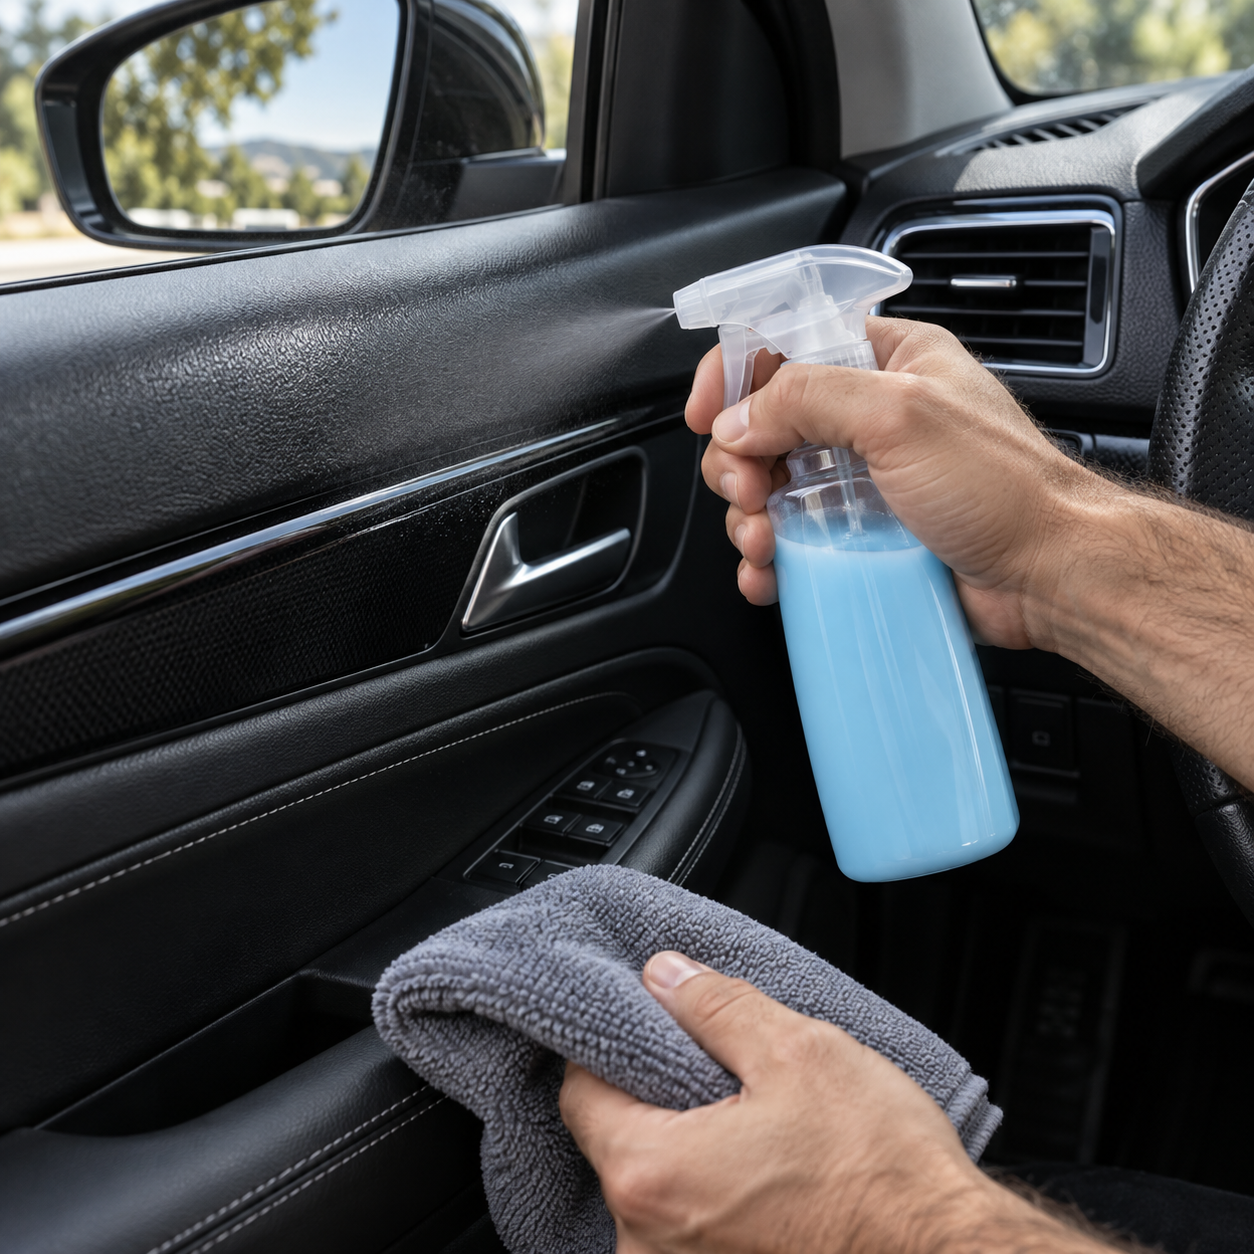
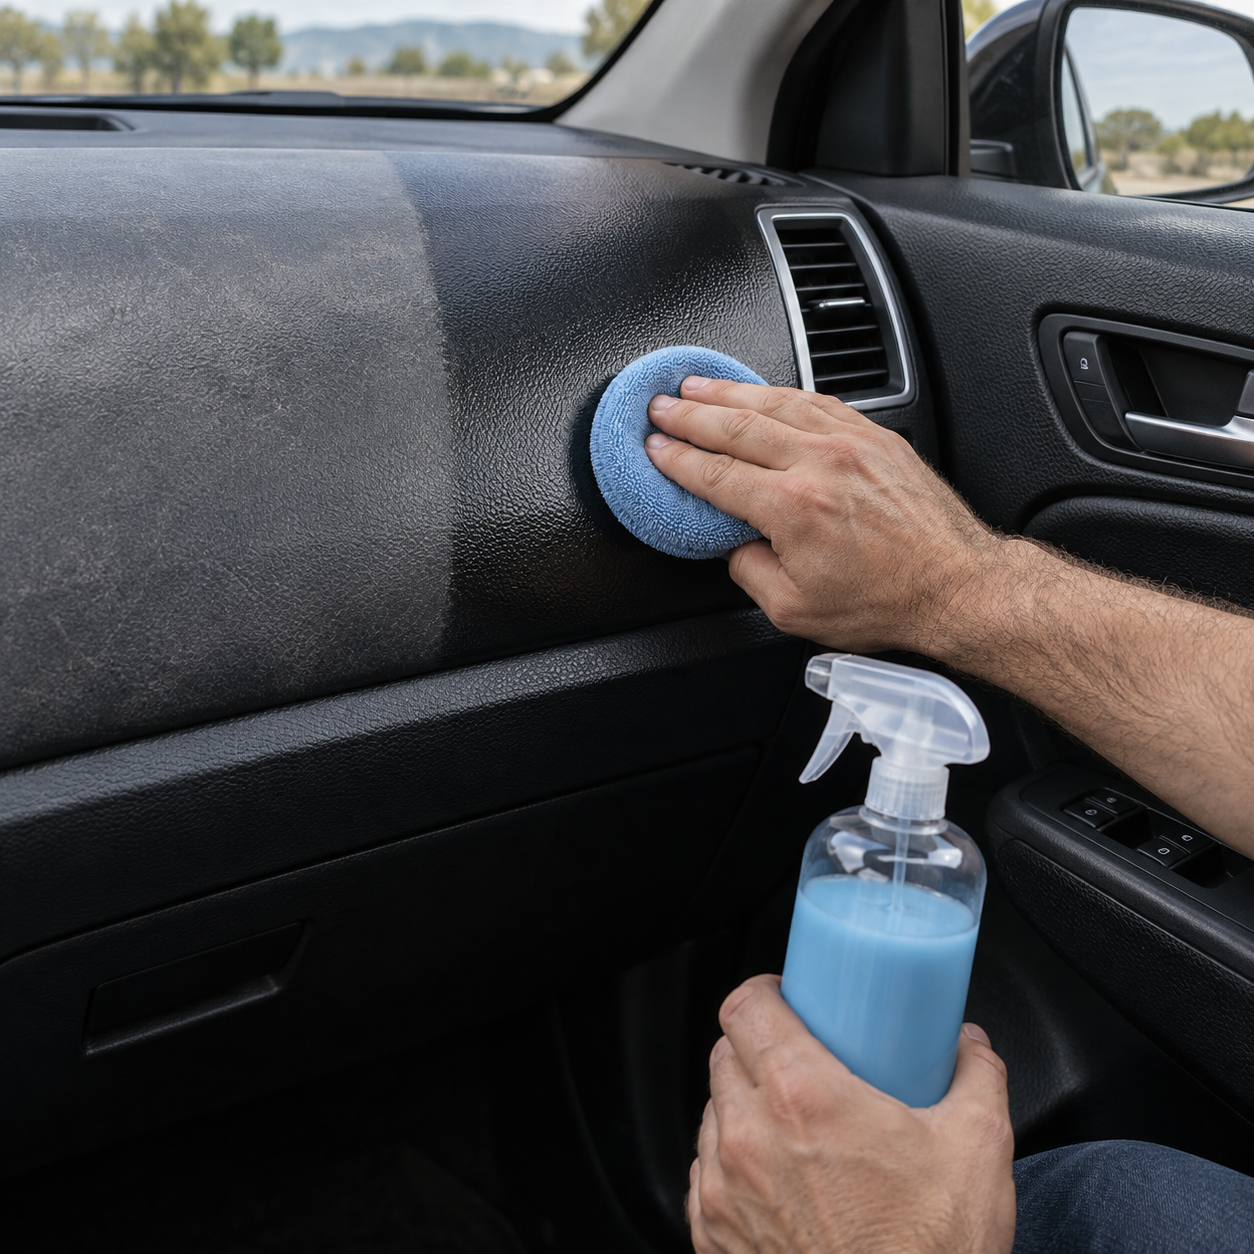
feat: mejora aplicación de abrillantador de viniles

diff --git a/automotriz/abrillantador-viniles-liquido/index.html b/automotriz/abrillantador-viniles-liquido/index.html
@@ -102,7 +102,7 @@
       "name": "¿Cómo se aplica?",
       "acceptedAnswer": {
         "@type": "Answer",
-        "text": "Se aplica en poca cantidad con atomizador o microfibra limpia, se distribuye de forma uniforme y se retira cualquier exceso."
+        "text": "Se coloca una pequeña cantidad sobre un pad redondo de microfibra limpio, se distribuye de forma uniforme y se retira cualquier exceso."
       }
     },
     {
@@ -161,7 +161,7 @@
           <span class="ph-badge">Viniles y plásticos</span>
           <h1>Abrillantador líquido de viniles y plásticos</h1>
           <p class="lead">Acabado brillante, aroma agradable y tacto seco para viniles y plásticos automotrices interiores y exteriores.</p>
-          <ul class="hero-benefits"><li>Realza la apariencia de viniles y plásticos con acabado brillante y uniforme.</li><li>Fórmula líquida para atomizar o aplicar con microfibra limpia.</li><li>Deja aroma agradable y tacto seco cuando se usa en capa ligera.</li><li>Aplicada correctamente, no empaña los cristales interiores.</li><li>Compatible con plásticos y viniles interiores y exteriores, siguiendo las precauciones de uso.</li></ul>
+          <ul class="hero-benefits"><li>Realza la apariencia de viniles y plásticos con acabado brillante y uniforme.</li><li>Fórmula líquida para aplicar con un pad redondo de microfibra limpio.</li><li>Deja aroma agradable y tacto seco cuando se usa en capa ligera.</li><li>Aplicada correctamente, no empaña los cristales interiores.</li><li>Compatible con plásticos y viniles interiores y exteriores, siguiendo las precauciones de uso.</li></ul>
           <p class="hero-sizes"><strong>Presentaciones:</strong> Consulta presentaciones disponibles</p>
           <div class="hero-cta">
             <a href="https://wa.me/523222202407?text=Hola%2C%20me%20interesa%20el%20Abrillantador%20l%C3%ADquido%20de%20viniles%20y%20pl%C3%A1sticos%20Q-WERK.%20Quiero%20confirmar%20presentaciones%2C%20precio%20y%20disponibilidad." target="_blank" rel="noopener" class="btn btn-green" data-wa-msg="Hola, me interesa el Abrillantador líquido de viniles y plásticos Q-WERK. Quiero confirmar presentaciones, precio y disponibilidad." data-ev="product_whatsapp_click" data-ev-product="Abrillantador líquido de viniles y plásticos">Consultar precio y presentación</a>
@@ -177,14 +177,14 @@
     <div class="container page-content">
       <h2>Resumen rápido</h2>
       <p class="lead-intro">El Abrillantador líquido de viniles y plásticos Q-WERK está diseñado para realzar la apariencia de viniles y plásticos automotrices interiores y exteriores. Deja un acabado brillante, aroma agradable y tacto seco cuando se aplica de forma uniforme y se retira el exceso.</p>
-      <table class="spec-table"><tbody><tr><th scope="row">Tipo de producto</th><td>Abrillantador líquido para viniles y plásticos automotrices</td></tr><tr><th scope="row">Uso principal</th><td>Abrillantar y renovar la apariencia de viniles y plásticos interiores y exteriores</td></tr><tr><th scope="row">Nivel de concentración</th><td>Listo para usar; no requiere dilución</td></tr><tr><th scope="row">Forma de aplicación</th><td>Atomizar sobre microfibra limpia o aplicar directamente en capa ligera y uniforme</td></tr><tr><th scope="row">Superficies compatibles</th><td>Viniles y plásticos interiores y exteriores; no aplicar en zonas de agarre o cristales</td></tr><tr><th scope="row">Presentaciones</th><td>Consulta presentaciones disponibles</td></tr><tr><th scope="row">Cliente recomendado</th><td>Autolavados, detalladores y personas que realizan mantenimiento automotriz</td></tr></tbody></table>
+      <table class="spec-table"><tbody><tr><th scope="row">Tipo de producto</th><td>Abrillantador líquido para viniles y plásticos automotrices</td></tr><tr><th scope="row">Uso principal</th><td>Abrillantar y renovar la apariencia de viniles y plásticos interiores y exteriores</td></tr><tr><th scope="row">Nivel de concentración</th><td>Listo para usar; no requiere dilución</td></tr><tr><th scope="row">Forma de aplicación</th><td>Aplicar una pequeña cantidad con un pad redondo de microfibra limpio y distribuir en capa ligera y uniforme</td></tr><tr><th scope="row">Superficies compatibles</th><td>Viniles y plásticos interiores y exteriores; no aplicar en zonas de agarre o cristales</td></tr><tr><th scope="row">Presentaciones</th><td>Consulta presentaciones disponibles</td></tr><tr><th scope="row">Cliente recomendado</th><td>Autolavados, detalladores y personas que realizan mantenimiento automotriz</td></tr></tbody></table>
     </div>
   </section>
 
   <!-- C · información completa -->
   <section class="section" id="ficha">
     <div class="container page-content">
-      <h2>Qué es</h2><p>Es un abrillantador líquido para viniles y plásticos automotrices. Está pensado para renovar la apariencia de superficies interiores y exteriores con un acabado brillante, aroma agradable y tacto seco.</p><h2>Dónde se puede usar</h2><p>En viniles y plásticos interiores y exteriores, como tableros, consolas, paneles de puerta, molduras y plásticos exteriores. Prueba primero en una zona poco visible si es la primera vez que lo aplicas.</p><h2>Modo de uso</h2><ol><li>Limpiar y secar la superficie antes de aplicar.</li><li>Atomizar una pequeña cantidad sobre una microfibra limpia o directamente sobre la superficie, evitando el exceso.</li><li>Distribuir en una capa ligera y uniforme.</li><li>Retirar cualquier exceso con otra cara limpia de la microfibra.</li><li>Dejar secar al tacto antes de usar o entregar el vehículo.</li></ol><h2>Acabado y aroma</h2><p>Deja un acabado brillante y aroma agradable. Al aplicarlo en capa ligera y retirar el exceso, el resultado queda seco al tacto y no empaña los cristales interiores.</p><h2>Precauciones</h2><ul><li>No aplicar sobre cristales, parabrisas, pantallas ni controles.</li><li>No aplicar en volante, pedales, piso o zonas donde se requiera máximo agarre.</li><li>No saturar la superficie ni dejar exceso de producto.</li><li>Mantener fuera del alcance de niñas y niños.</li></ul><h2>Presentaciones y compra</h2><p>Consulta con Q-WERK las presentaciones, precio, disponibilidad e indicaciones vigentes antes de hacer tu pedido por WhatsApp al +52 322 220 2407.</p>
+      <h2>Qué es</h2><p>Es un abrillantador líquido para viniles y plásticos automotrices. Está pensado para renovar la apariencia de superficies interiores y exteriores con un acabado brillante, aroma agradable y tacto seco.</p><h2>Dónde se puede usar</h2><p>En viniles y plásticos interiores y exteriores, como tableros, consolas, paneles de puerta, molduras y plásticos exteriores. Prueba primero en una zona poco visible si es la primera vez que lo aplicas.</p><h2>Modo de uso</h2><ol><li>Limpiar y secar la superficie antes de aplicar.</li><li>Colocar una pequeña cantidad sobre un pad redondo de microfibra limpio, evitando el exceso.</li><li>Distribuir en una capa ligera y uniforme.</li><li>Retirar cualquier exceso con otra cara limpia de la microfibra.</li><li>Dejar secar al tacto antes de usar o entregar el vehículo.</li></ol><h2>Acabado y aroma</h2><p>Deja un acabado brillante y aroma agradable. Al aplicarlo en capa ligera y retirar el exceso, el resultado queda seco al tacto y no empaña los cristales interiores.</p><h2>Precauciones</h2><ul><li>No aplicar sobre cristales, parabrisas, pantallas ni controles.</li><li>No aplicar en volante, pedales, piso o zonas donde se requiera máximo agarre.</li><li>No saturar la superficie ni dejar exceso de producto.</li><li>Mantener fuera del alcance de niñas y niños.</li></ul><h2>Presentaciones y compra</h2><p>Consulta con Q-WERK las presentaciones, precio, disponibilidad e indicaciones vigentes antes de hacer tu pedido por WhatsApp al +52 322 220 2407.</p>
 
       <h2>Productos relacionados</h2>
       <ul class="related-links"><li><a href="/automotriz/snow-foam-ph-neutro/">Snow Foam</a></li><li><a href="/automotriz/apc-limpiador-multiusos/">APC</a></li><li><a href="/automotriz/desengrasante-concentrado/">Desengrasante de alta concentración</a></li></ul>
@@ -201,7 +201,7 @@
       <div class="faq-list">
         <details class="faq-item"><summary>¿Para qué sirve el Abrillantador líquido de viniles y plásticos?</summary><p>Sirve para realzar y renovar la apariencia de viniles y plásticos automotrices con un acabado brillante, aroma agradable y tacto seco.</p></details>
         <details class="faq-item"><summary>¿Se puede usar en interiores y exteriores?</summary><p>Sí, está pensado para viniles y plásticos automotrices interiores y exteriores, respetando las precauciones de uso.</p></details>
-        <details class="faq-item"><summary>¿Cómo se aplica?</summary><p>Se aplica en poca cantidad con atomizador o microfibra limpia, se distribuye de forma uniforme y se retira cualquier exceso.</p></details>
+        <details class="faq-item"><summary>¿Cómo se aplica?</summary><p>Se coloca una pequeña cantidad sobre un pad redondo de microfibra limpio, se distribuye de forma uniforme y se retira cualquier exceso.</p></details>
         <details class="faq-item"><summary>¿Deja grasosa la superficie?</summary><p>No, cuando se aplica en capa ligera y se retira el exceso deja tacto seco.</p></details>
         <details class="faq-item"><summary>¿Empaña los cristales?</summary><p>Aplicado correctamente y sin rociarlo sobre cristales, no empaña los cristales interiores.</p></details>
         <details class="faq-item"><summary>¿Qué presentaciones y precio tiene?</summary><p>Las presentaciones, el precio y la disponibilidad se confirman por WhatsApp antes del pedido.</p></details>
